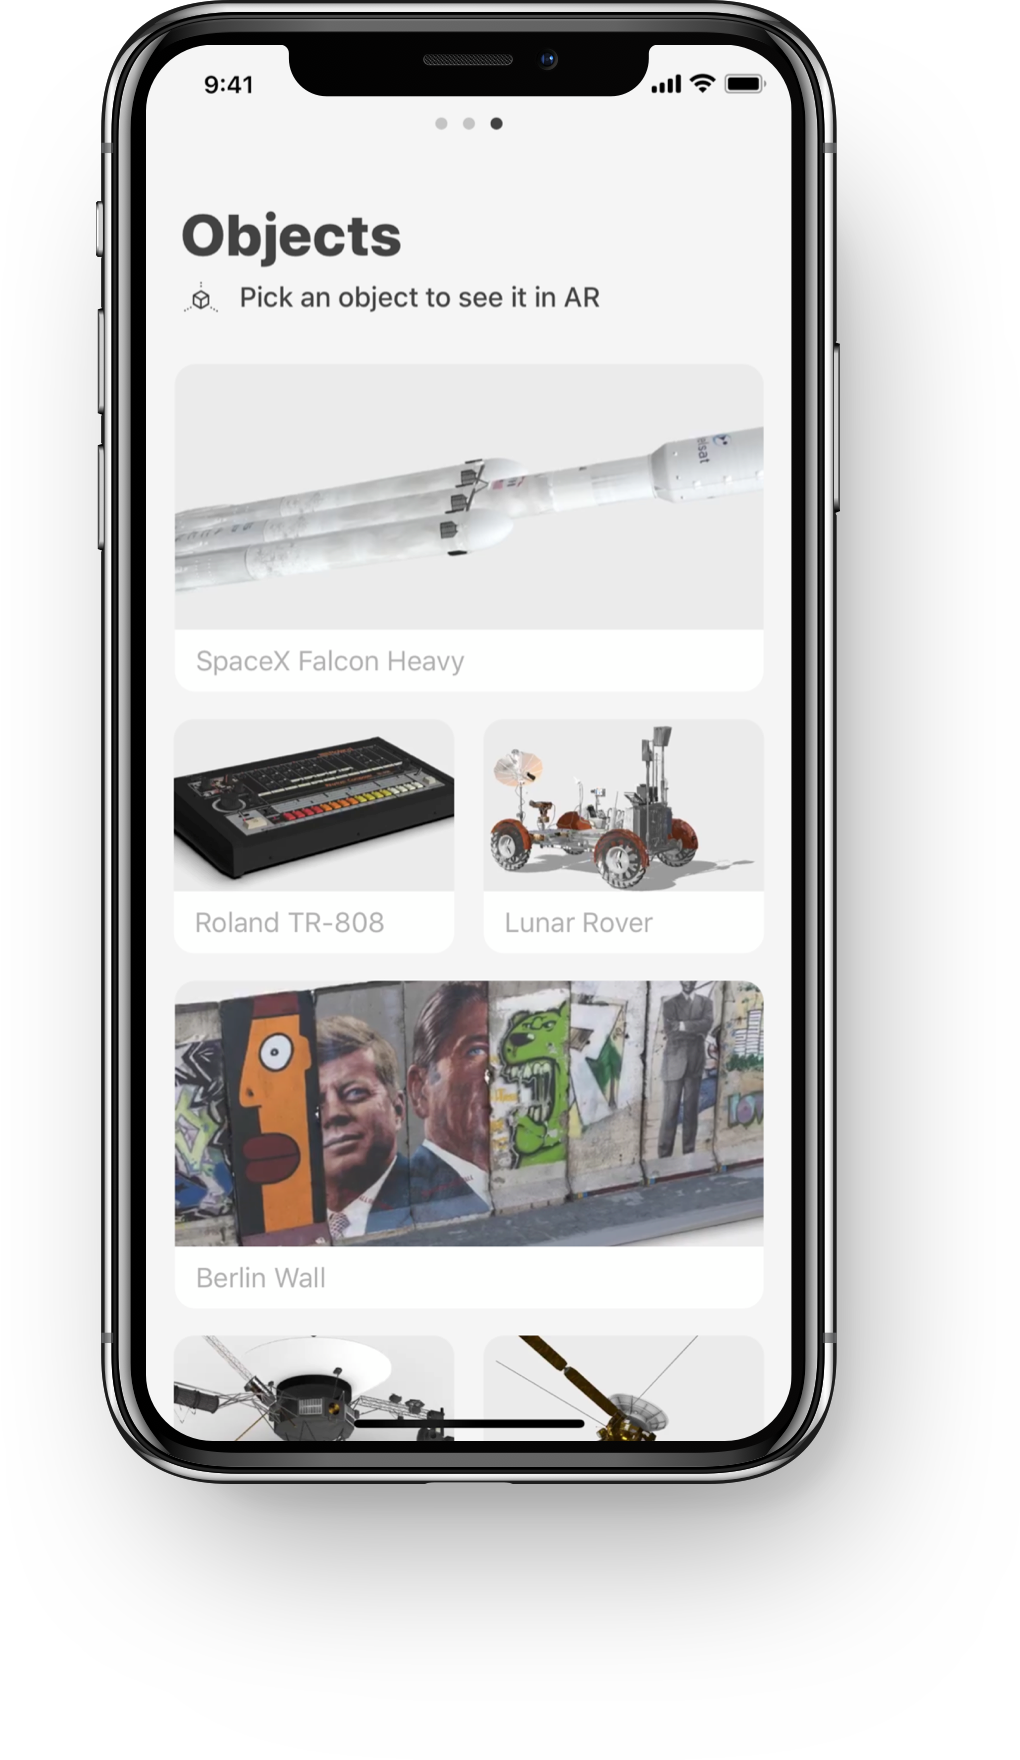
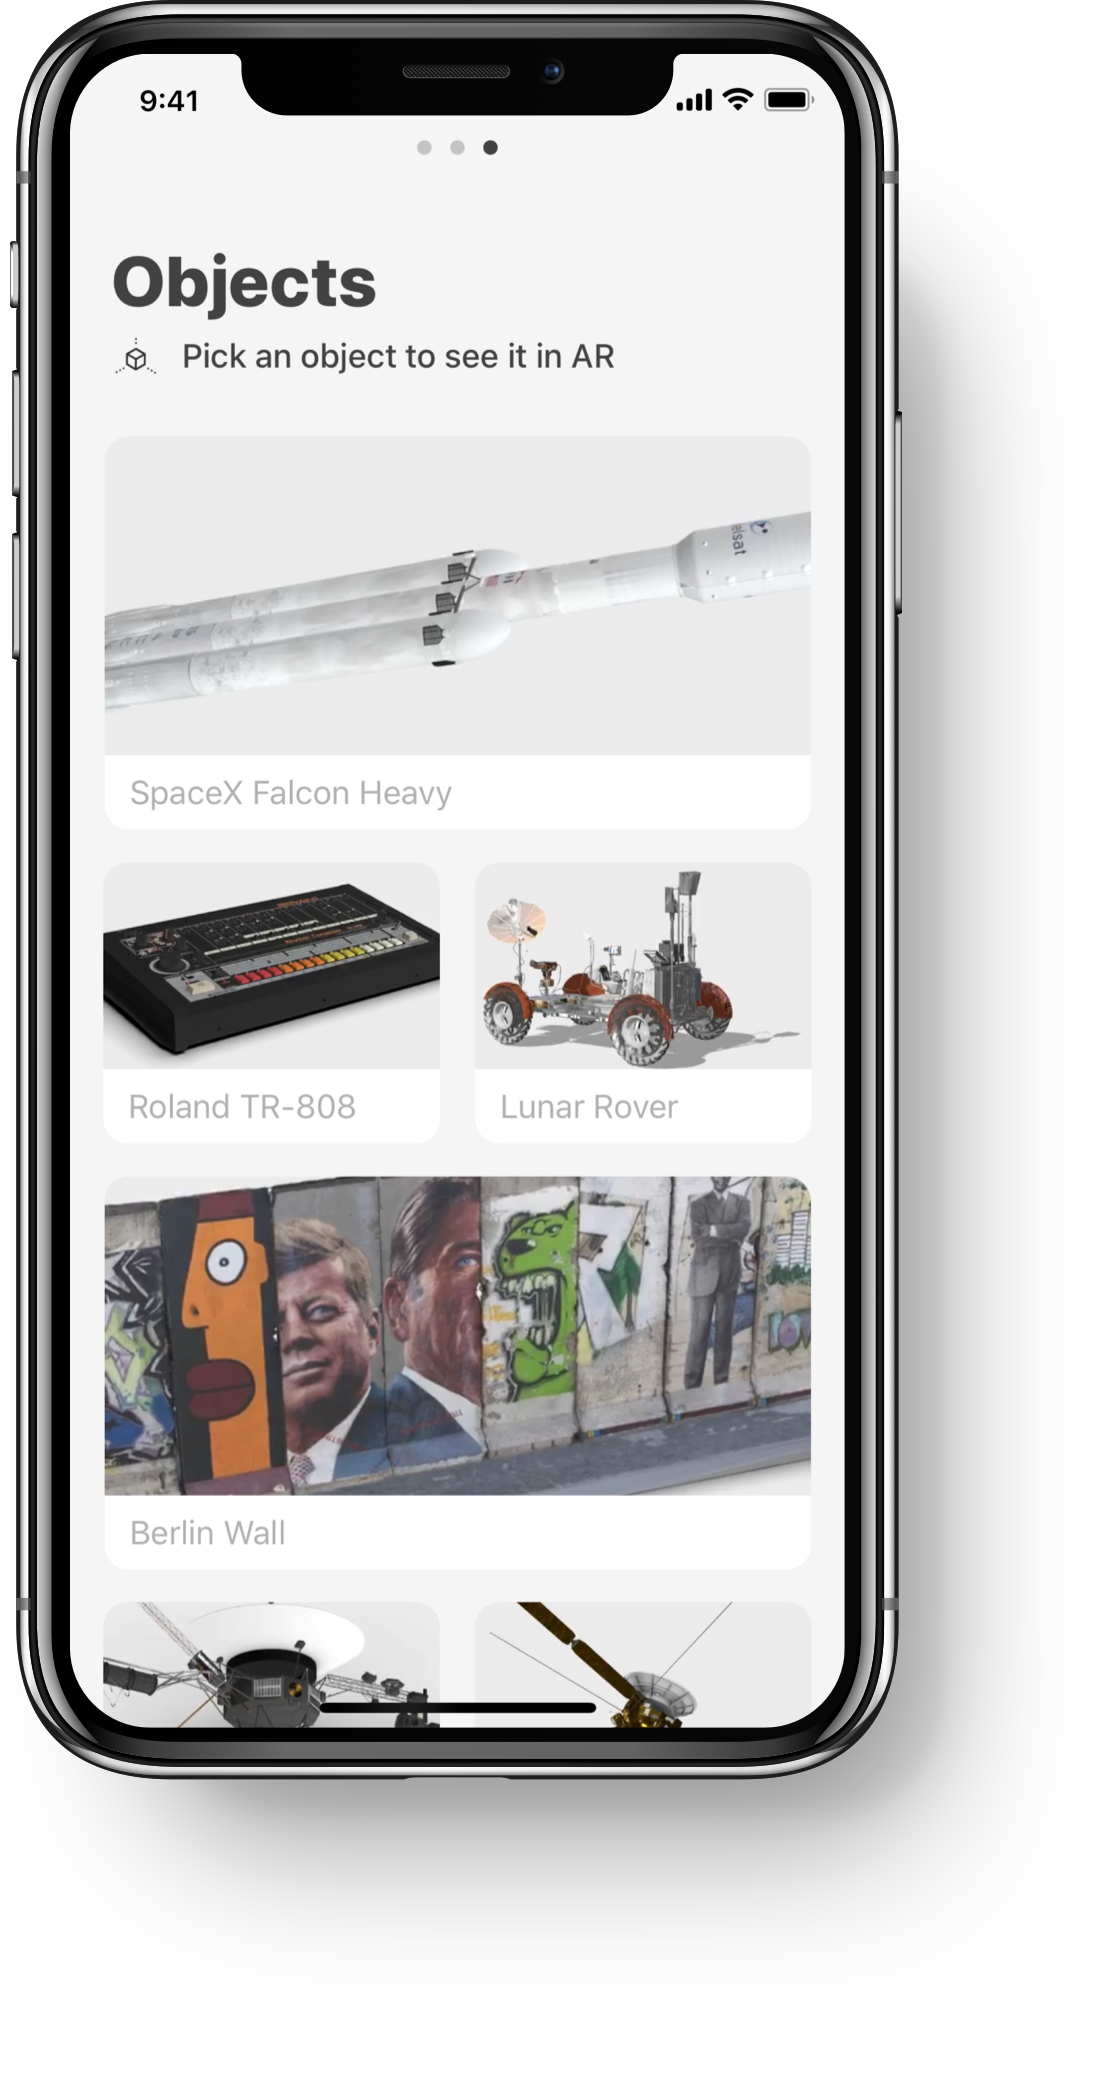
More work on project

diff --git a/Public/styles/style.css b/Public/styles/style.css
@@ -1,5 +1,5 @@
 .hal-codes-logo[data-v-247f024b]{cursor:pointer;-webkit-user-select:none;-webkit-user-drag:none;user-drag:none;max-width:232px;margin-bottom:3em;transition:transform .3s cubic-bezier(.175,.9,.32,1.6);filter:drop-shadow(0 2px 10px rgba(0,0,0,.15))}.hal-codes-logo[data-v-247f024b]:hover{transform:scale(1.04)}.hal-codes-logo[data-v-247f024b]:active{transform:none}@media screen and (max-width:768px){.hal-codes-logo[data-v-247f024b]{max-width:174px;margin-bottom:1em}}
 section.intro[data-v-0214c708]{display:flex;justify-content:space-between;flex-wrap:wrap}section.intro article[data-v-0214c708]{max-width:480px;margin-bottom:2em;margin-right:.6em}
 @font-face{font-family:PlexSans;font-style:italic;font-weight:400;src:url(https://fonts.gstatic.com/s/ibmplexsans/v2/zYX-KVElMYYaJe8bpLHnCwDKhdTuF6ZJW9XjDg.woff2) format("woff2");unicode-range:u+00??,u+0131,u+0152-0153,u+02bb-02bc,u+02c6,u+02da,u+02dc,u+2000-206f,u+2074,u+20ac,u+2122,u+2191,u+2193,u+2212,u+2215,u+feff,u+fffd}@font-face{font-family:PlexSans;font-style:normal;font-weight:400;src:url(https://fonts.gstatic.com/s/ibmplexsans/v2/zYXgKVElMYYaJe8bpLHnCwDKhdHeFaxOedc.woff2) format("woff2");unicode-range:u+00??,u+0131,u+0152-0153,u+02bb-02bc,u+02c6,u+02da,u+02dc,u+2000-206f,u+2074,u+20ac,u+2122,u+2191,u+2193,u+2212,u+2215,u+feff,u+fffd}@font-face{font-family:Iosevka;font-weight:400;src:url("/fonts/iosevka-brew-regular.woff2") format("woff2"),url("/fonts/iosevka-brew-regular.ttf") format("truetype")}@font-face{font-family:Cerebri;src:url("/fonts/cerebrisans-semibold.eot");src:url("/fonts/cerebrisans-semibold.woff2") format("woff2"),url("/fonts/cerebrisans-semibold.woff") format("woff"),url("/fonts/cerebrisans-semibold.ttf") format("truetype"),url("/fonts/cerebrisans-semibold.svg#CerebriSans-SemiBold") format("svg")}html{overflow-y:scroll}body{background:#efefef;font-family:PlexSans,serif;font-size:20px;font-weight:400}a,body{color:#232323}a{cursor:pointer;background:none;text-decoration:underline;transition:color .2s,background .2s}a:hover{color:#999}p{font-size:1.1em;line-height:1.5em}@media screen and (max-width:768px){p{font-size:.8em}}@media screen and (max-width:320px){p{font-size:.6em}}button{outline:none}section.main{padding:3em;margin:0 auto;max-width:1400px;overflow-x:hidden}@media screen and (max-width:768px){section.main{padding:1em}}.footer{margin-top:8em}.footer p{color:#bcbcbc;font-size:.7em;text-align:center}
-.post{display:flex;flex-wrap:wrap}.post h1,.post h2,.post h3,.post h4,.post h5{font-family:Cerebri,serif;font-weight:600}.post h2{font-size:2.2em}.post h2,.post p{max-width:500px}.post img{object-fit:contain}.post .post-text{flex-grow:1}
+.post{display:flex;flex-wrap:wrap}.post h1,.post h2,.post h3,.post h4,.post h5{font-family:Cerebri,serif;font-weight:600}.post h2{font-size:2.2em}.post h2,.post p{max-width:500px}.post .post-text{flex:1 0 40%}.post .image-fit{flex:1 0 50%;max-width:554px;min-width:380px;margin:0 auto}.post img{width:auto;max-width:100%;object-fit:contain}
 /*! normalize.css v8.0.0 | MIT License | github.com/necolas/normalize.css */html{line-height:1.15;-webkit-text-size-adjust:100%}body{margin:0}h1{font-size:2em;margin:.67em 0}hr{box-sizing:content-box;height:0;overflow:visible}pre{font-family:monospace,monospace;font-size:1em}a{background-color:transparent}abbr[title]{border-bottom:none;text-decoration:underline;text-decoration:underline dotted}b,strong{font-weight:bolder}code,kbd,samp{font-family:monospace,monospace;font-size:1em}small{font-size:80%}sub,sup{font-size:75%;line-height:0;position:relative;vertical-align:baseline}sub{bottom:-.25em}sup{top:-.5em}img{border-style:none}button,input,optgroup,select,textarea{font-family:inherit;font-size:100%;line-height:1.15;margin:0}button,input{overflow:visible}button,select{text-transform:none}[type=button],[type=reset],[type=submit],button{-webkit-appearance:button}[type=button]::-moz-focus-inner,[type=reset]::-moz-focus-inner,[type=submit]::-moz-focus-inner,button::-moz-focus-inner{border-style:none;padding:0}[type=button]:-moz-focusring,[type=reset]:-moz-focusring,[type=submit]:-moz-focusring,button:-moz-focusring{outline:1px dotted ButtonText}fieldset{padding:.35em .75em .625em}legend{box-sizing:border-box;color:inherit;display:table;max-width:100%;padding:0;white-space:normal}progress{vertical-align:baseline}textarea{overflow:auto}[type=checkbox],[type=radio]{box-sizing:border-box;padding:0}[type=number]::-webkit-inner-spin-button,[type=number]::-webkit-outer-spin-button{height:auto}[type=search]{-webkit-appearance:textfield;outline-offset:-2px}[type=search]::-webkit-search-decoration{-webkit-appearance:none}::-webkit-file-upload-button{-webkit-appearance:button;font:inherit}details{display:block}summary{display:list-item}[hidden],template{display:none}

diff --git a/Public/styles/1.style.css b/Public/styles/1.style.css
@@ -1,1 +1,1 @@
-.fade-enter-active[data-v-29ab5ccc],.fade-leave-active[data-v-29ab5ccc]{transition:opacity .4s}.fade-enter[data-v-29ab5ccc],.fade-leave-to[data-v-29ab5ccc]{opacity:0}section.projects[data-v-29ab5ccc]{margin-top:4em;width:100%}section.projects h1[data-v-29ab5ccc],section.projects h2[data-v-29ab5ccc],section.projects h3[data-v-29ab5ccc]{margin:0 0 2em}section.projects section[data-v-29ab5ccc]{display:flex;flex-wrap:wrap;justify-content:space-between;margin-right:-3em}@media screen and (max-width:900px){section.projects section[data-v-29ab5ccc]{margin-right:-1em}}section.projects a[data-v-29ab5ccc]{display:inline-block;border-radius:8px;background:#a8cde1;cursor:pointer;margin-bottom:8em;margin-right:3em;overflow:hidden;height:680px;min-width:200px}@media screen and (min-width:768px){section.projects a img[data-v-29ab5ccc]{transition:transform .3s cubic-bezier(.175,.9,.32,1.6);pointer-events:none;-webkit-user-select:none}section.projects a[data-v-29ab5ccc]:hover{overflow:visible}section.projects a:hover img[data-v-29ab5ccc]{transform:scale(1.01)}section.projects a:active img[data-v-29ab5ccc]{transform:none}}@media screen and (max-width:900px){section.projects a[data-v-29ab5ccc]{margin-right:1em;flex:1 0 240px!important}}@media screen and (max-width:768px){section.projects a[data-v-29ab5ccc]{margin-bottom:3em;height:500px}}section.projects .objects[data-v-29ab5ccc]{display:block;flex:1 0 260px;max-width:560px}section.projects .objects img[data-v-29ab5ccc]{margin-top:-50px;margin-left:-40px}section.projects .fore[data-v-29ab5ccc]{display:block;background:#e1d4e1;flex:1.6 0 280px}section.projects .fore img[data-v-29ab5ccc]{margin-top:-60px}
+.fade-enter-active[data-v-29ab5ccc],.fade-leave-active[data-v-29ab5ccc]{transition:opacity .4s}.fade-enter[data-v-29ab5ccc],.fade-leave-to[data-v-29ab5ccc]{opacity:0}section.projects[data-v-29ab5ccc]{margin-top:4em;width:100%}section.projects h1[data-v-29ab5ccc],section.projects h2[data-v-29ab5ccc],section.projects h3[data-v-29ab5ccc]{margin:0 0 2em}section.projects section[data-v-29ab5ccc]{display:flex;flex-wrap:wrap;justify-content:space-between;margin-right:-3em}@media screen and (max-width:900px){section.projects section[data-v-29ab5ccc]{margin-right:-1em}}section.projects a[data-v-29ab5ccc]{display:inline-block;border-radius:8px;background:#a8cde1;cursor:pointer;margin-bottom:8em;margin-right:3em;overflow:hidden;height:680px;min-width:200px}@media screen and (max-width:768px){section.projects a img[data-v-29ab5ccc]{transition:transform .3s cubic-bezier(.175,.9,.32,1.6);pointer-events:none;-webkit-user-select:none}section.projects a[data-v-29ab5ccc]:hover{overflow:visible}section.projects a:hover img[data-v-29ab5ccc]{transform:scale(1.01)}section.projects a:active img[data-v-29ab5ccc]{transform:none}}@media screen and (max-width:900px){section.projects a[data-v-29ab5ccc]{margin-right:1em;flex:1 0 240px!important}}@media screen and (max-width:768px){section.projects a[data-v-29ab5ccc]{margin-bottom:3em;height:500px}}section.projects .objects[data-v-29ab5ccc]{display:block;flex:1 0 260px;max-width:560px}section.projects .objects img[data-v-29ab5ccc]{margin-top:-50px;margin-left:-40px}section.projects .fore[data-v-29ab5ccc]{display:block;background:#e1d4e1;flex:1.6 0 280px}section.projects .fore img[data-v-29ab5ccc]{margin-top:-60px}

diff --git a/Public/scripts/4.bundle.js b/Public/scripts/4.bundle.js
@@ -1,1 +1,1 @@
-(window.webpackJsonp=window.webpackJsonp||[]).push([[4],{45:function(t,e,s){"use strict";s.r(e);var n=function(){var t=this.$createElement;this._self._c;return this._m(0)};n._withStripped=!0;var i=s(0),r=Object(i.a)({},n,[function(){var t=this.$createElement,e=this._self._c||t;return e("section",[e("img",{staticStyle:{"margin-left":"-48px"},attrs:{src:"/images/objectsPhoneStraight.png",alt:"Quartz Objects",srcset:"/images/objectsPhoneStraight.png 1x, /images/objectsPhoneStraight@2x.png 2x"}}),this._v(" "),e("div",{staticClass:"post-text"},[e("h2",[this._v("Quartz Objects")]),this._v(" "),e("p",[this._v("Objects is an ongoing project to bring 3D objects to news stories in the Quartz App.")]),this._v(" "),e("p",[this._v("A new app screen stores featured objects in a more permanent way so readers can enjoy them after they’ve dropped out of the news script.")])])])}],!1,null,null,null);r.options.__file="Content/Projects/objects.md";e.default=r.exports}}]);
+(window.webpackJsonp=window.webpackJsonp||[]).push([[4],{45:function(t,e,s){"use strict";s.r(e);var i=function(){var t=this.$createElement;this._self._c;return this._m(0)};i._withStripped=!0;var n=s(0),r=Object(n.a)({},i,[function(){var t=this.$createElement,e=this._self._c||t;return e("section",[e("div",{staticClass:"image-fit"},[e("img",{attrs:{src:"/images/objectsPhoneStraight.png",alt:"Quartz Objects",srcset:"/images/objectsPhoneStraight.png 1x, /images/objectsPhoneStraight@2x.png 2x"}})]),this._v(" "),e("div",{staticClass:"post-text"},[e("h2",[this._v("Quartz Objects")]),this._v(" "),e("p",[this._v("Objects is an ongoing project to bring 3D objects to news stories in the Quartz App.")]),this._v(" "),e("p",[this._v("A new app screen stores featured objects in a more permanent way so readers can enjoy them after they’ve dropped out of the news script.")])])])}],!1,null,null,null);r.options.__file="Content/Projects/objects.md";e.default=r.exports}}]);

diff --git a/Frontend/Views/Project.vue b/Frontend/Views/Project.vue
@@ -44,12 +44,23 @@ $post-width: 500px;
     max-width: $post-width;
   }
 
+  .post-text {
+    flex: 1 0 40%;
+  }
+
+  .image-fit {
+    flex: 1 0 50%;
+    max-width: 554px;
+    min-width: 380px;
+    margin: 0 auto;
+  }
+
   img {
+    width: auto;
+    max-width: 100%;
     object-fit: contain;
   }
 
-  .post-text {
-    flex-grow: 1;
-  }
+
 }
 </style>

diff --git a/Content/Projects/objects.md b/Content/Projects/objects.md
@@ -1,4 +1,6 @@
-<img src="/images/objectsPhoneStraight.png" style="margin-left:-48px;" alt="Quartz Objects" srcset="/images/objectsPhoneStraight.png 1x, /images/objectsPhoneStraight@2x.png 2x">
+<div class="image-fit">
+  <img src="/images/objectsPhoneStraight.png" alt="Quartz Objects" srcset="/images/objectsPhoneStraight.png 1x, /images/objectsPhoneStraight@2x.png 2x">
+</div>
 <div class="post-text">
 
 ## Quartz Objects
